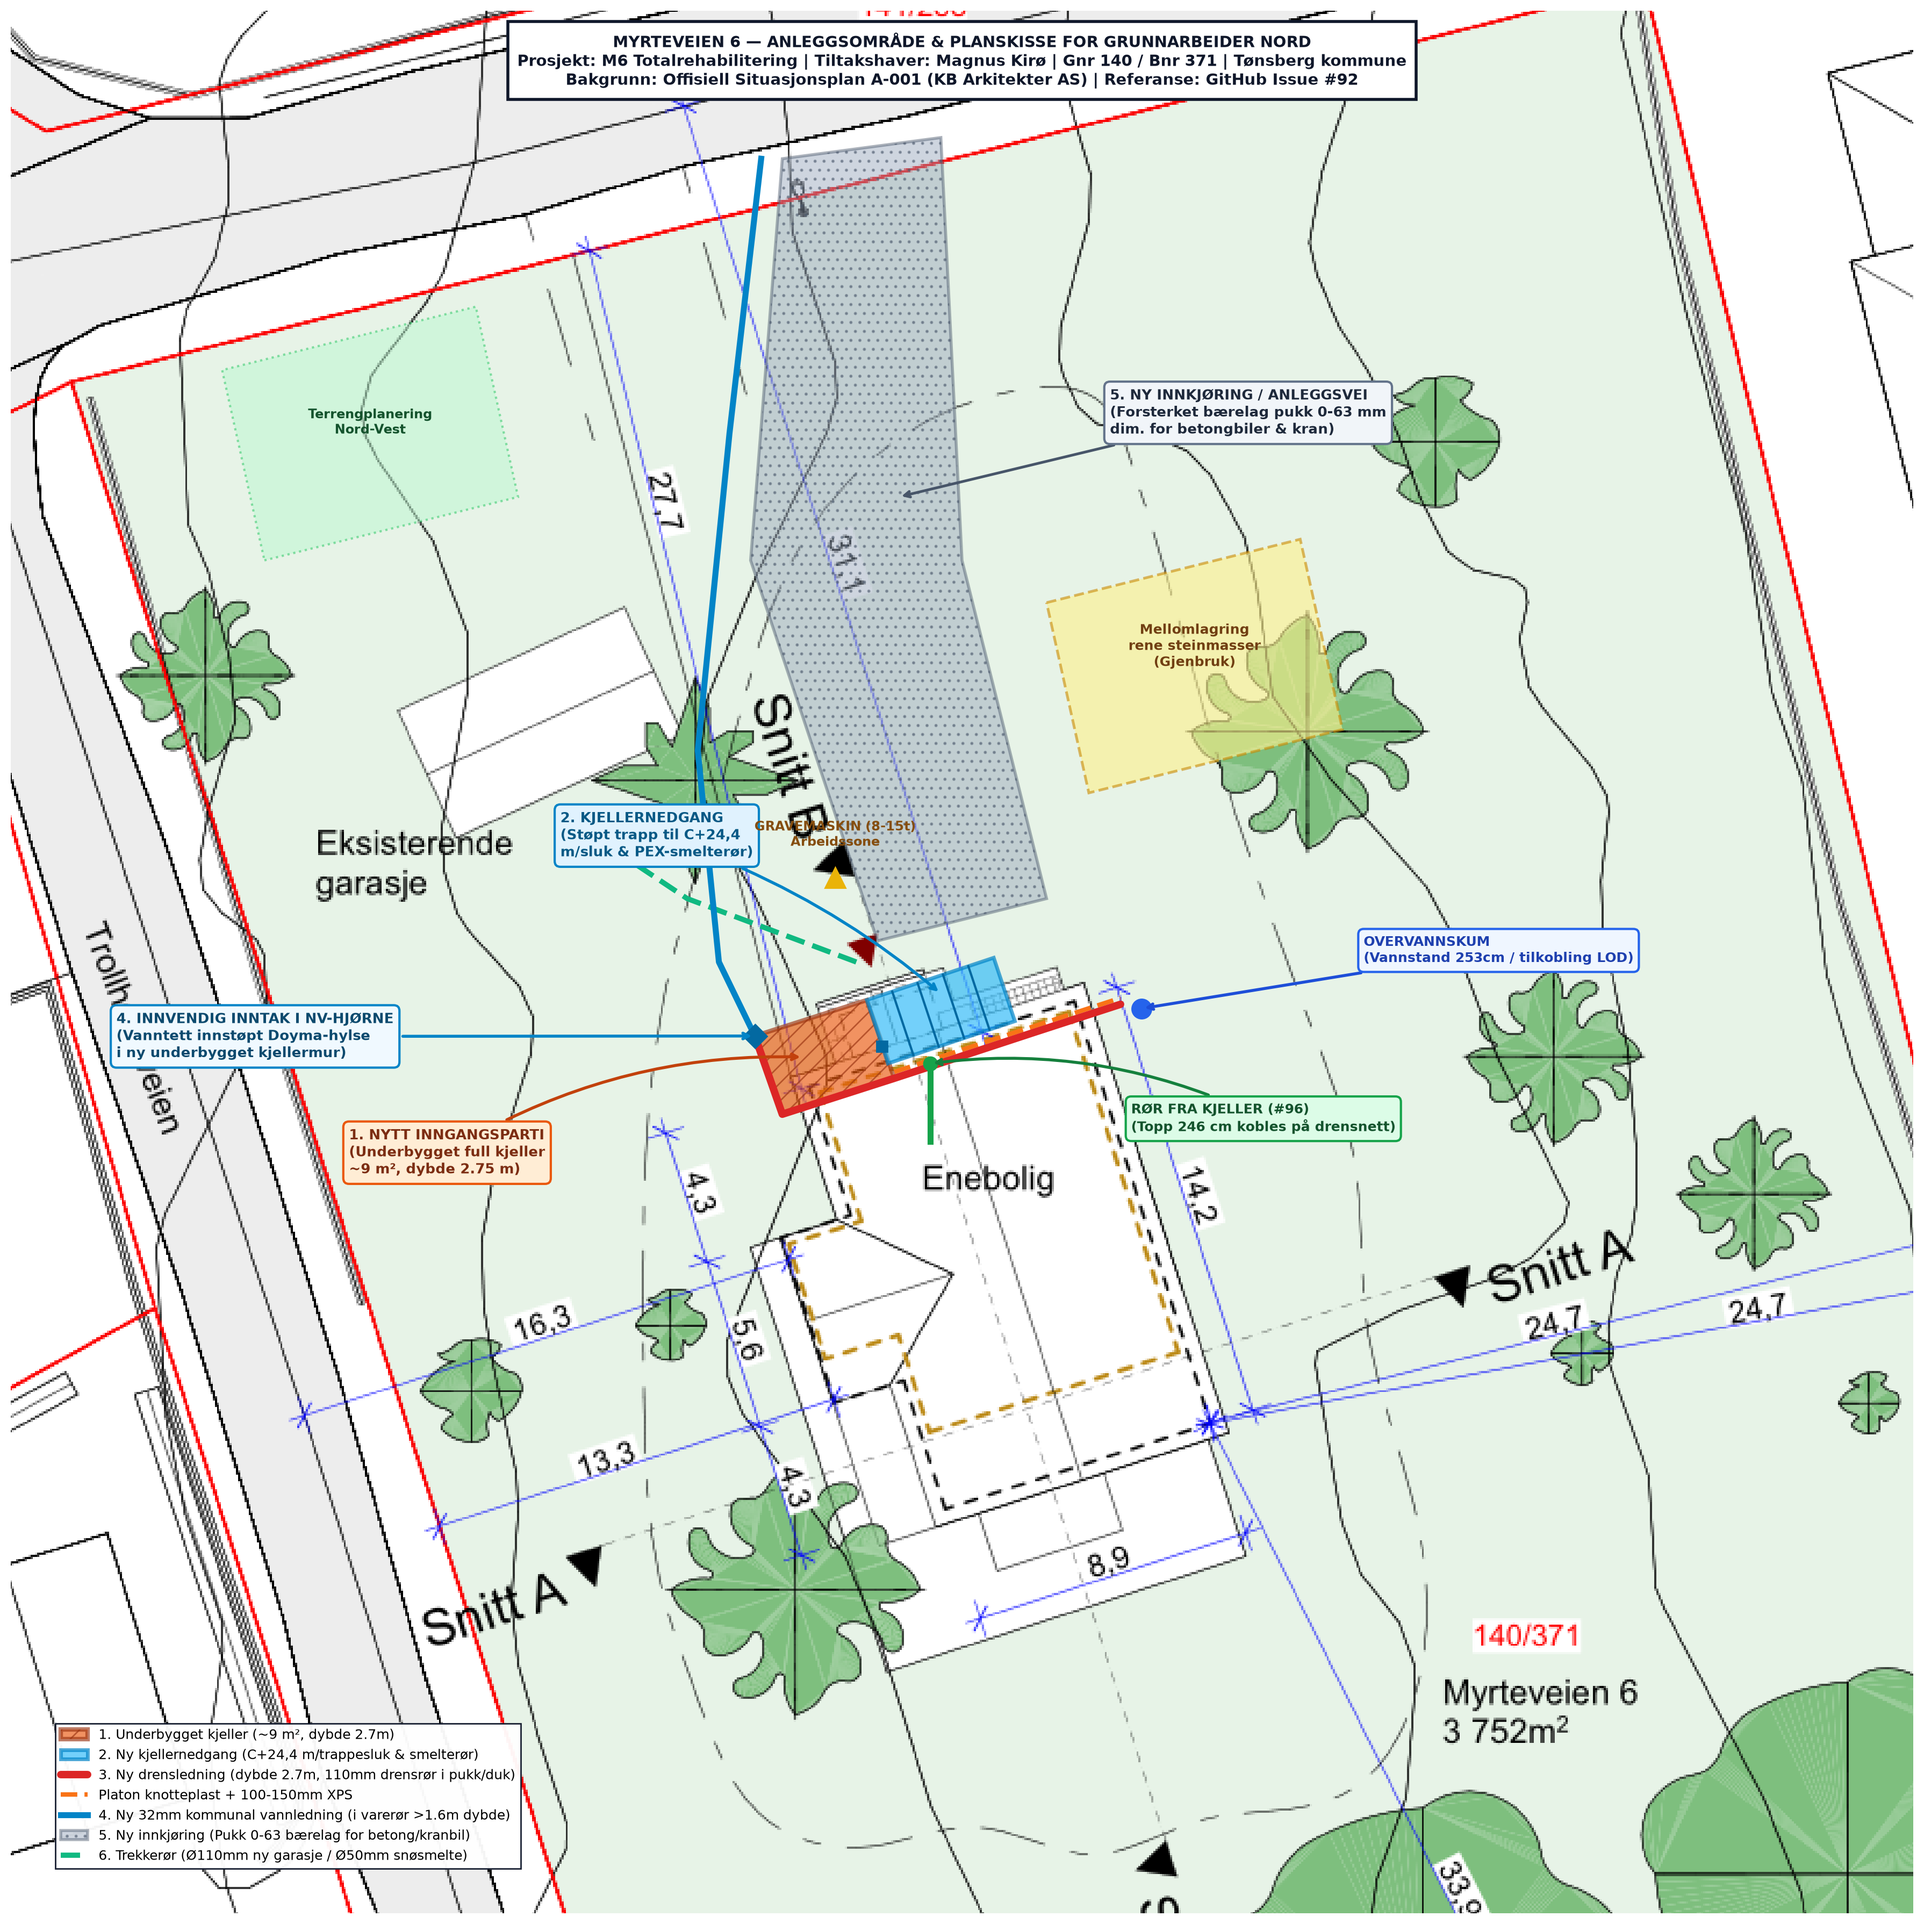
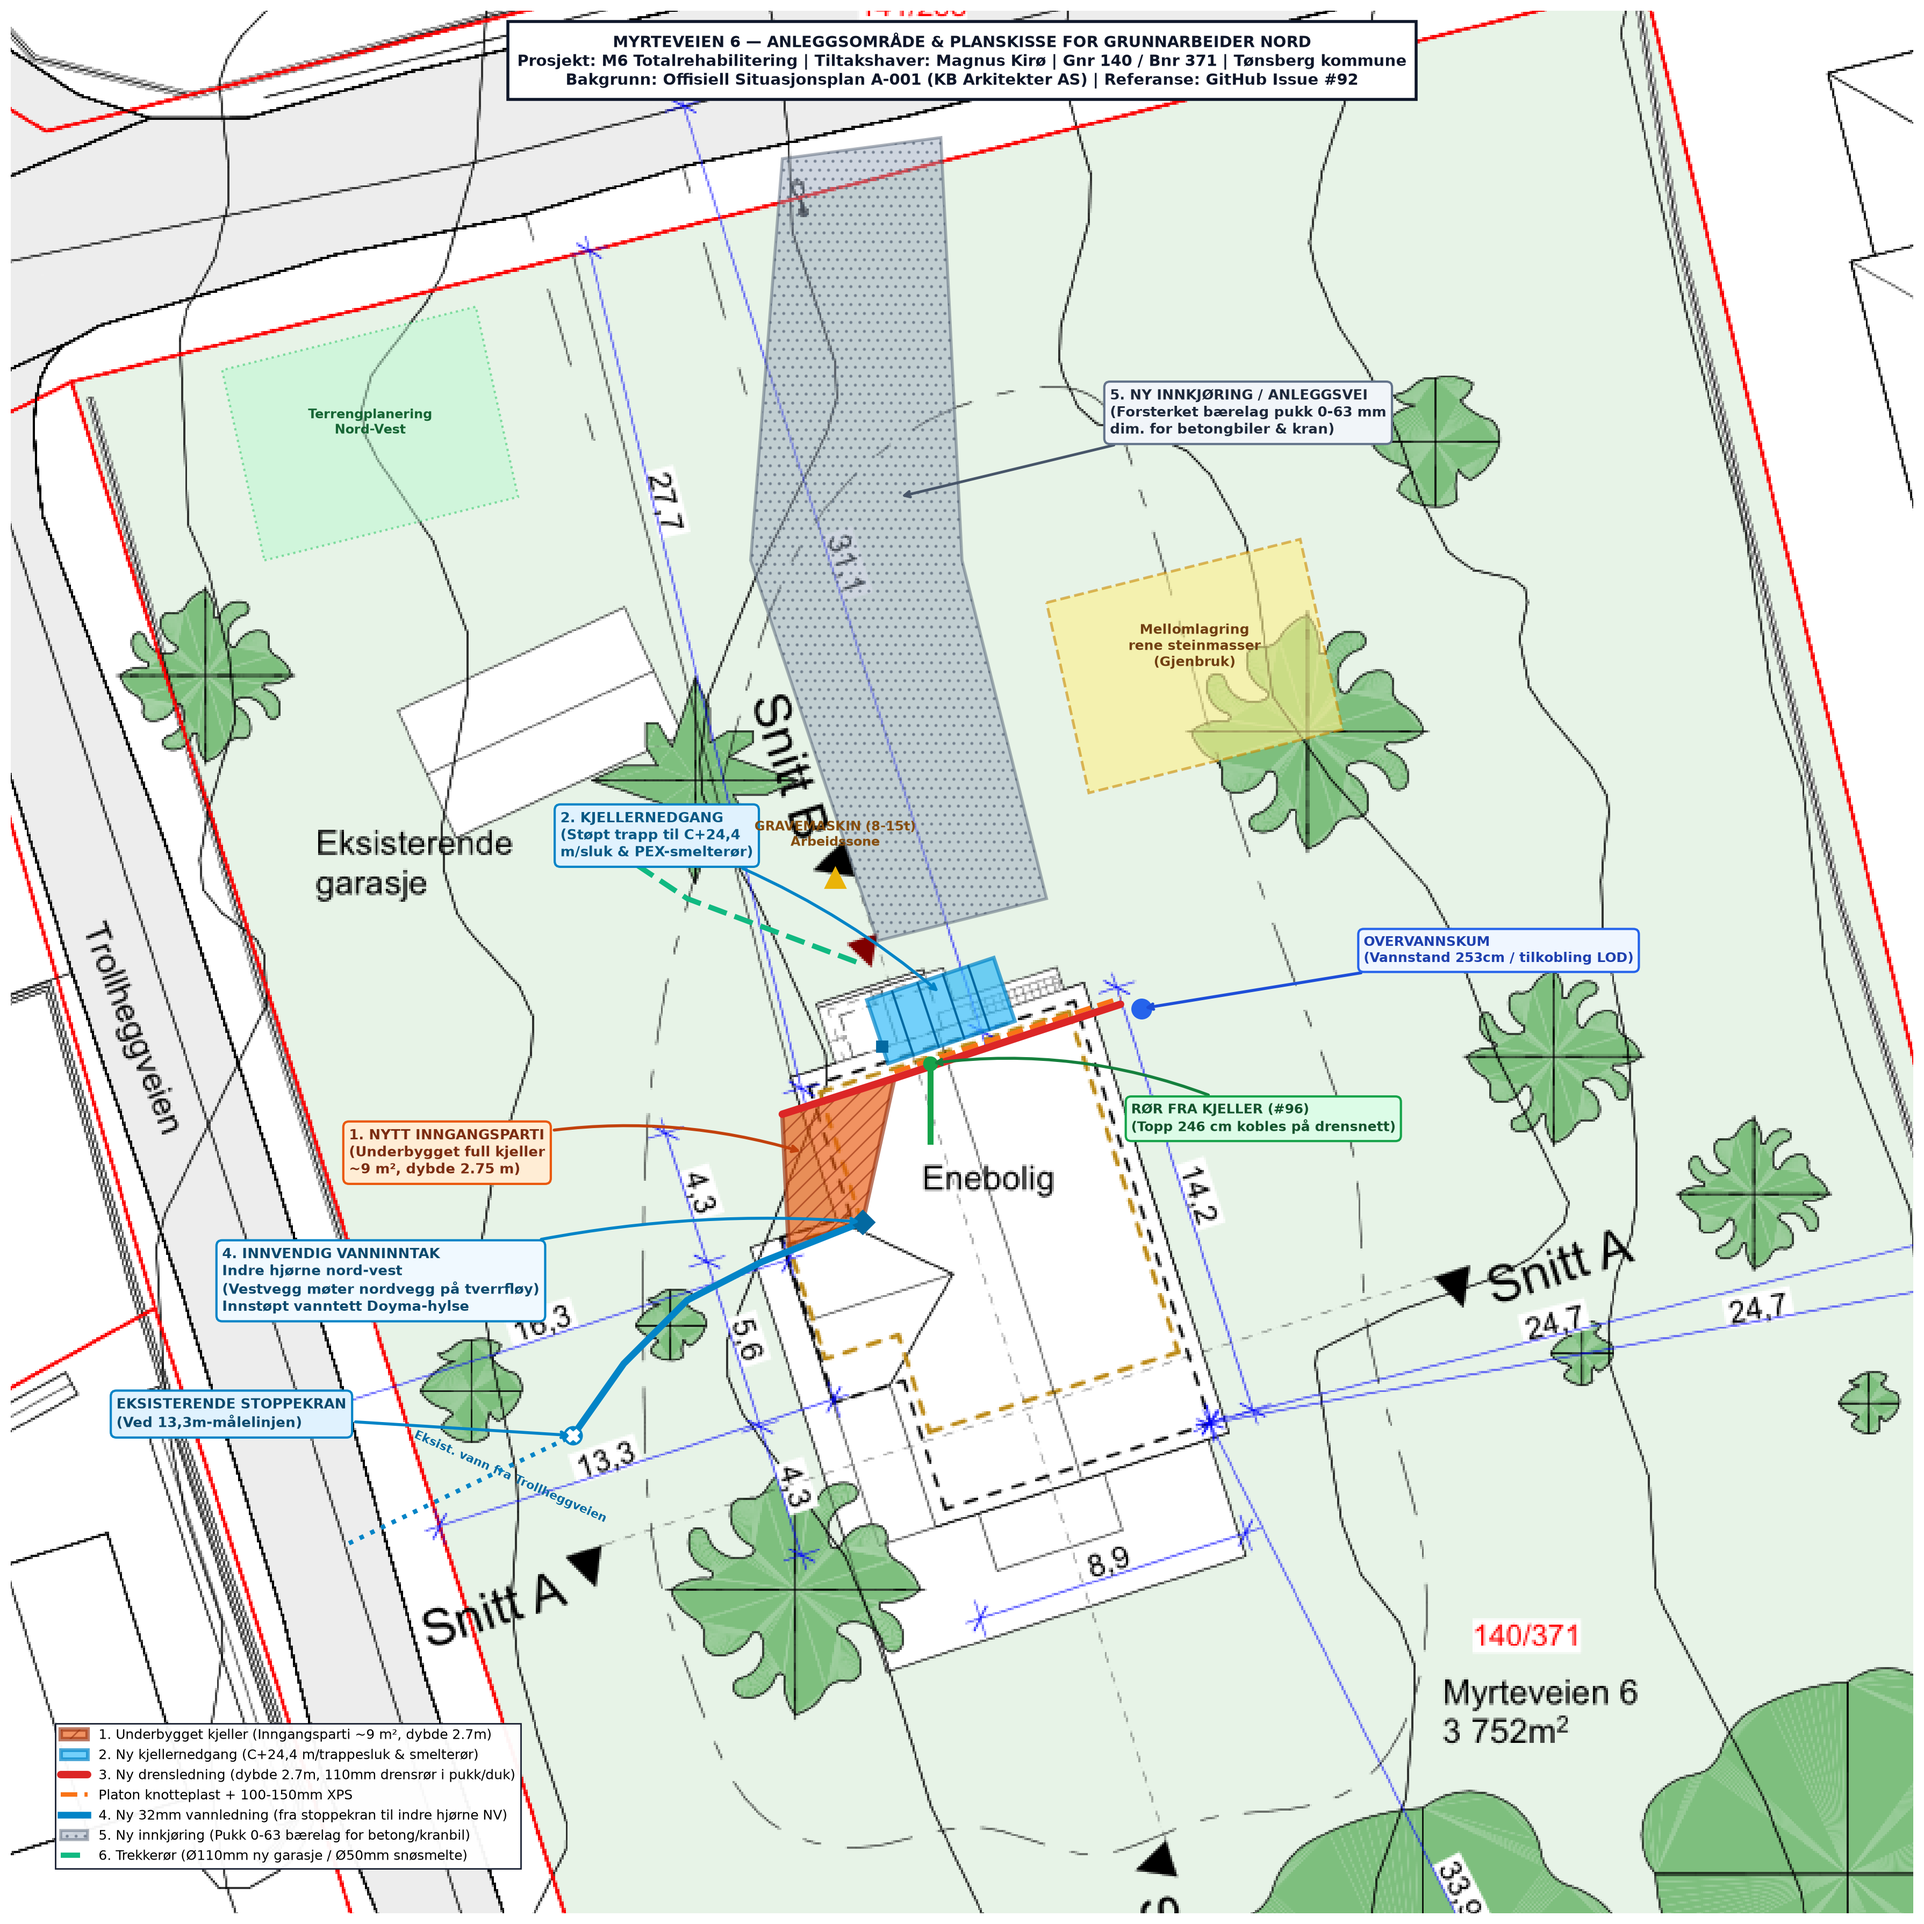
docs(grunnarbeid-nord): oppdater vannlednings trase fra stoppekran ved 13,3m til indre NV-hjorne

diff --git a/scripts/generate_site_plan.py b/scripts/generate_site_plan.py
@@ -20,20 +20,20 @@ ax.set_ylim(1120, 220)  # Inverted Y for image coordinates
 # -------------------------------------------------------------
 
 # 1. UNDERBYGGET KJELLER UNDER NYTT INNGANGSPARTI
-# Position around x=880-940, y=700-750 (NW of house)
+# The new addition fills between the tverrfløy and the north wall (approx x=870-938, y=705-793)
 inngang_pts = np.array([
     [885, 742],
     [938, 725],
-    [925, 688],
-    [872, 705]
+    [923, 793],  # Indre hjørne mot tverrfløy
+    [888, 804]   # Nordvest-hjørne på tverrfløy
 ])
 inngang_poly = Polygon(inngang_pts, closed=True, facecolor="#ea580c", edgecolor="#9a3412",
-                       lw=3, alpha=0.65, hatch="//", zorder=5, label="1. Underbygget kjeller (~9 m², dybde 2.7m)")
+                       lw=3, alpha=0.65, hatch="//", zorder=5, label="1. Underbygget kjeller (Inngangsparti ~9 m², dybde 2.7m)")
 ax.add_patch(inngang_poly)
 
 ax.annotate(
     "1. NYTT INNGANGSPARTI\n(Underbygget full kjeller\n~9 m², dybde 2.75 m)",
-    xy=(895, 715), xytext=(680, 770),
+    xy=(895, 760), xytext=(680, 770),
     arrowprops=dict(arrowstyle="->", color="#c2410c", lw=2, connectionstyle="arc3,rad=-0.15"),
     fontsize=9.5, weight="bold", color="#7c2d12",
     bbox=dict(boxstyle="round,pad=0.4", fc="#ffedd5", ec="#ea580c", lw=1.5),
@@ -41,7 +41,6 @@ ax.annotate(
 )
 
 # 2. NY UTVENDIG KJELLERNEDGANG
-# Runs along north wall from x=925, y=688 to x=985, y=668
 kjeller_trapp_pts = np.array([
     [925, 688],
     [985, 668],
@@ -71,9 +70,8 @@ ax.annotate(
 )
 
 # 3. RE-DRENERING NORDVEGG (DYBDE 2.75M)
-# From NW corner of new addition, past stairs, along north wall to NE corner and kum
-dren_x = [872, 885, 938, 1005, 1045]
-dren_y = [705, 742, 725, 703, 690]
+dren_x = [885, 938, 1005, 1045]
+dren_y = [742, 725, 703, 690]
 ax.plot(dren_x, dren_y, color="#dc2626", lw=5, solid_capstyle='round', zorder=6,
         label="3. Ny drensledning (dybde 2.7m, 110mm drensrør i pukk/duk)")
 
@@ -103,32 +101,51 @@ ax.annotate(
     zorder=10
 )
 
-# 4. NY KOMMUNAL VANNLEDNING (FRA MYRTEVEIEN TIL NV-HJØRNE)
-va_pts = [
-    [875, 290],   # Tilknytningspunkt Myrteveien
-    [860, 420],
-    [845, 570],
-    [855, 670],
-    [872, 705]    # NV-hjørne av nytt inngangsparti
-]
-va_x = [p[0] for p in va_pts]
-va_y = [p[1] for p in va_pts]
-ax.plot(va_x, va_y, color="#0284c7", lw=4, ls="-", zorder=7,
-        label="4. Ny 32mm kommunal vannledning (i varerør >1.6m dybde)")
+# -------------------------------------------------------------
+# 4. VANNFORSYNING: FRA TROLLHEGGVEIEN VIA STOPPEKRAN VED 13.3M
+# -------------------------------------------------------------
+# Eksisterende stikkledning fra Trollheggveien (langs 13,3m-målelinjen)
+ax.plot([680, 786], [945, 894], color="#0284c7", lw=3, ls=":", zorder=5)
+ax.text(710, 935, "Eksist. vann fra Trollheggveien", fontsize=8, color="#0369a1", rotation=-24, weight="bold")
 
-# Innvendig inntakspunkt i NV-hjørnet
-ax.plot(872, 705, marker="D", markersize=11, color="#0369a1", zorder=9)
+# Stoppekran ved 13,3 m-målet
+ax.plot(786, 894, marker="o", markersize=12, color="#0284c7", zorder=9)
+ax.plot(786, 894, marker="X", markersize=8, color="#ffffff", zorder=10)
+
 ax.annotate(
-    "4. INNVENDIG INNTAK I NV-HJØRNE\n(Vanntett innstøpt Doyma-hylse\ni ny underbygget kjellermur)",
-    xy=(872, 705), xytext=(570, 715),
+    "EKSISTERENDE STOPPEKRAN\n(Ved 13,3m-målelinjen)",
+    xy=(786, 894), xytext=(570, 890),
     arrowprops=dict(arrowstyle="->", color="#0284c7", lw=2),
     fontsize=9.5, weight="bold", color="#0c4a6e",
+    bbox=dict(boxstyle="round,pad=0.4", fc="#e0f2fe", ec="#0284c7", lw=1.5),
+    zorder=11
+)
+
+# Ny 32mm vannledning fra stoppekran nordover til indre hjørne nord-vest
+va_new_pts = [
+    [786, 894],   # Stoppekran ved 13,3m
+    [810, 860],
+    [840, 830],
+    [875, 812],
+    [923, 793]    # Indre hjørne NV der vestvegg møter nordvegg på tverrfløy
+]
+va_new_x = [p[0] for p in va_new_pts]
+va_new_y = [p[1] for p in va_new_pts]
+ax.plot(va_new_x, va_new_y, color="#0284c7", lw=4.5, ls="-", zorder=7,
+        label="4. Ny 32mm vannledning (fra stoppekran til indre hjørne NV)")
+
+# Inntakspunkt i indre hjørne
+ax.plot(923, 793, marker="D", markersize=11, color="#0369a1", zorder=9)
+ax.annotate(
+    "4. INNVENDIG VANNINNTAK\nIndre hjørne nord-vest\n(Vestvegg møter nordvegg på tverrfløy)\nInnstøpt vanntett Doyma-hylse",
+    xy=(923, 793), xytext=(620, 835),
+    arrowprops=dict(arrowstyle="->", color="#0284c7", lw=2, connectionstyle="arc3,rad=-0.1"),
+    fontsize=9.5, weight="bold", color="#0c4a6e",
     bbox=dict(boxstyle="round,pad=0.4", fc="#f0f9ff", ec="#0284c7", lw=1.5),
-    zorder=10
+    zorder=11
 )
 
 # 5. NY VINKLET INNKJØRING & BÆRELAG (PUKK 0-63)
-# Starting at Myrteveien, angled slightly east, covering the driveway zone
 driveway_pts = np.array([
     [885, 290],
     [960, 280],
@@ -181,7 +198,7 @@ planering_pts = np.array([
 planering_poly = Polygon(planering_pts, closed=True, facecolor="#bbf7d0", edgecolor="#22c55e",
                          lw=1.5, ls=":", alpha=0.5, zorder=2)
 ax.add_patch(planering_poly)
-ax.text(690, 420, "Terrengplanering\nNord-Vest", fontsize=8.5, weight="bold", color="#14532d", ha="center", zorder=4)
+ax.text(690, 420, "Terrengplanering\nNord-Vest", fontsize=8.5, weight="bold", color="#166534", ha="center", zorder=4)
 
 # -------------------------------------------------------------
 # TITLE BANNER & LEGEND
@@ -207,4 +224,4 @@ out_path_brain = "C:/Users/magkir/.gemini/antigravity/brain/773222c6-8706-4aad-8
 
 plt.savefig(out_path_repo, dpi=200, bbox_inches='tight')
 plt.savefig(out_path_brain, dpi=200, bbox_inches='tight')
-print("Successfully generated overlay directly on situasjonsplan!")
+print("Successfully generated refined overlay with updated water line!")

diff --git a/docs/ANBUDSFORESPORSEL_GRUNNARBEIDER_NORD.md b/docs/ANBUDSFORESPORSEL_GRUNNARBEIDER_NORD.md
@@ -14,7 +14,7 @@ Eiendommen Myrteveien 6 gjennomgår en helhetlig totalrehabilitering. På nordsi
 1. **Re-drenering og fuktsikring av nordveggen:** Dagens drensrør ligger for høyt (topp på 236 cm under topp grunnmur). Nytt drensrør skal legges med bunn på ca. **265–275 cm** dybde (kote ~C+24,1) for å senke grunnvannet (målt på 253–255 cm) og sikre tørr kjellersåle.
 2. **Underbygget kjeller under nytt inngangsparti:** Det nye inngangspartiet i 1. etasje (ihht. tegning A-101PS) skal **underbygges med full kjeller**. Dette krever full utgraving ned til samme sålenivå som kjelleren for øvrig (dybde ca. 2,7 m), støping av såle og nye grunnmursvegger, full utvendig isolering/drenering, samt betongdekke/bæring for inngangspartiet over.
 3. **Ny utvendig kjellernedgang (iht. A-100PS & A-201PS):** Plasstøpt betongtrapp og vanger ned til kote **C+24,4** (kjellerdør) integrert med den nye underbygde kjelleren, inkludert trappesluk og vannbårne snøsmelterør i trinnene.
-4. **Vannledning og teknisk inntak i nordvest-hjørnet:** Ny kommunal vannledning tas inn fra Myrteveien og føres inn i bygget i det nye **nordvest-hjørnet** via vanntett hylsegjennomføring i den nye underbygde kjellermuren.
+4. **Vannledning og teknisk inntak i indre nordvest-hjørne:** Eksisterende stikkledning fra Trollheggveien går inn langs 13,3 m-målelinjen med stoppekran ved tallet 13,3. Ny **32 mm PE-vannledning** kobles på denne stoppekranen og føres nordover til det **indre nordvest-hjørnet** (der hovedhusets vestvegg møter nordveggen på tverrfløyen), og tas inn i den nye underbygde kjelleren via vanntett Doyma-hylsegjennomføring.
 5. **Oppgradering og justering av innkjøring fra Myrteveien:** Innkjøringen flyttes/vinkles litt østover for direkte adkomst, og det etableres forsterket bærelag for tung anleggstrafikk (betong- og kranbiler).
 
 Det bes om fastpris / regulerbare enhetspriser per post basert på dette underlaget.
@@ -57,7 +57,7 @@ flowchart TD
     E --> G["7. Vanntett Rørhylse for Vannledning i NV-hjørne"]
     D --> H["8. Drenering & XPS rundt nytt NV-tilbygg"]
     H --> I["9. Tilkobling mot drensrør (#96) & Overvannskum/LOD"]
-    G --> J["10. Ny Vannledning fra Myrteveien til NV-hjørne"]
+    G --> J["10. Ny Vannledning fra Stoppekran (13,3m) til Indre NV-hjørne"]
     J --> K["11. Bærelag Innkjøring & Terrengplanering"]
 ```
 
@@ -105,11 +105,12 @@ flowchart TD
 
 ---
 
-### Post 5: Ny Kommunal Vannledning (Inntak i Nordvest-hjørnet)
-* Graving av VA-grøft fra tilknytningspunkt i Myrteveien frem til nordvest-hjørnet av det nye inngangspartiet (ca. 15–20 lm).
-* Levering og legging av **32 mm PE100 SDR11 vannledning** i varerør med fiberduk og markeringsbånd.
-* Innføring gjennom den vanntette rørhylsen i nordvest-veggen, klargjort med stoppekran/avstengning innvendig for videre rørføring til teknisk rom.
-* Frostsikring: Legges i frostsikker dybde (min. 1,6 m) eller isoleres med XPS og selvregulerende varmekabel.
+### Post 5: Ny Vannledning fra Stoppekran (Trollheggveien) til Indre NV-hjørne
+* Påkobling på eksisterende stikkledning/stoppekran ved 13,3 m-målelinjen (fra Trollheggveien, jf. situasjonsplan A-001).
+* Graving av VA-grøft fra stoppekranen og nordover til det indre nordvest-hjørnet der vestveggen møter nordveggen på tverrfløyen (ca. 14–16 lm).
+* Levering og legging av **32 mm PE100 SDR11 vannledning** i varerør med fiberduk, sandpute og markeringsbånd m/søketråd.
+* Innføring gjennom **vanntett Doyma-hylse** i ny underbygget kjellervegg i indre nordvest-hjørne, klargjort med innvendig hovedstoppekran for videre distribusjon.
+* Frostsikring: Legges i frostsikker dybde (min. 1,6 m) eller isoleres med 50 mm XPS og selvregulerende varmekabel dersom grunnforhold/fjell krever grunnere forlegning.
 
 ---
 
@@ -147,7 +148,7 @@ Alle priser oppgis ekskl. mva.
 | **4.2** | Montering av 100–150 mm XPS isolasjon | m² | ca. 40 | | |
 | **4.3** | 110 mm perforert drensrør m/pukk & fiberduk N2 | lm | ca. 22 | | |
 | **4.4** | Påkobling av rør fra kjeller (#96) og tilkobling mot kum/LOD | RS | 1 | | |
-| **5.1** | Grøft og legging av ny 32mm vannledning fra gate til NV-hjørne | lm | ca. 18 | | |
+| **5.1** | Grøft og legging av ny 32mm vannledning fra stoppekran (13,3m) til indre NV-hjørne | lm | ca. 15 | | |
 | **6.1** | Levering og trekking av DV-rør (110mm / 50mm) | lm | ca. 40 | | |
 | **6.2** | Bærelag innkjøring (fiberduk N3 + 0–63 mm komprimert pukk) | m² | ca. 80 | | |
 | **6.3** | Tilbakefylling m/drensmasser og planering nord-vest | timer/m³ | Anslått | | |
